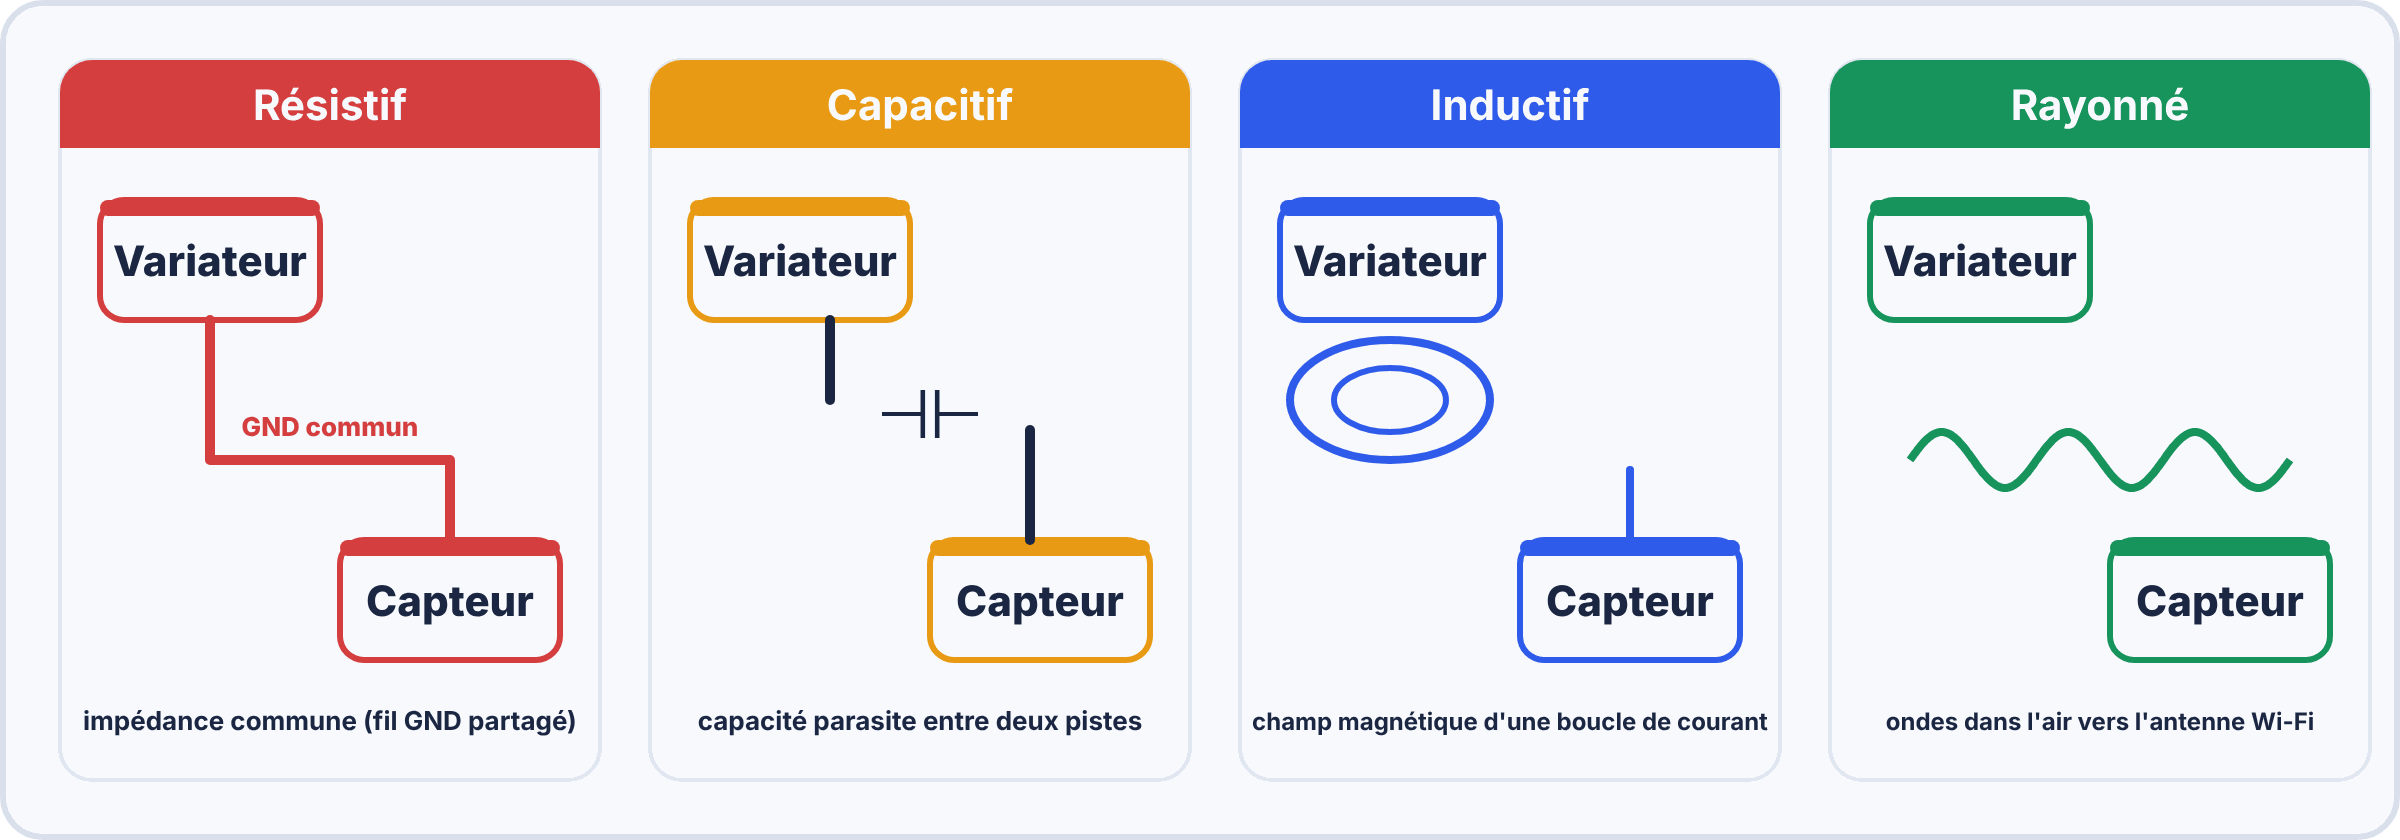
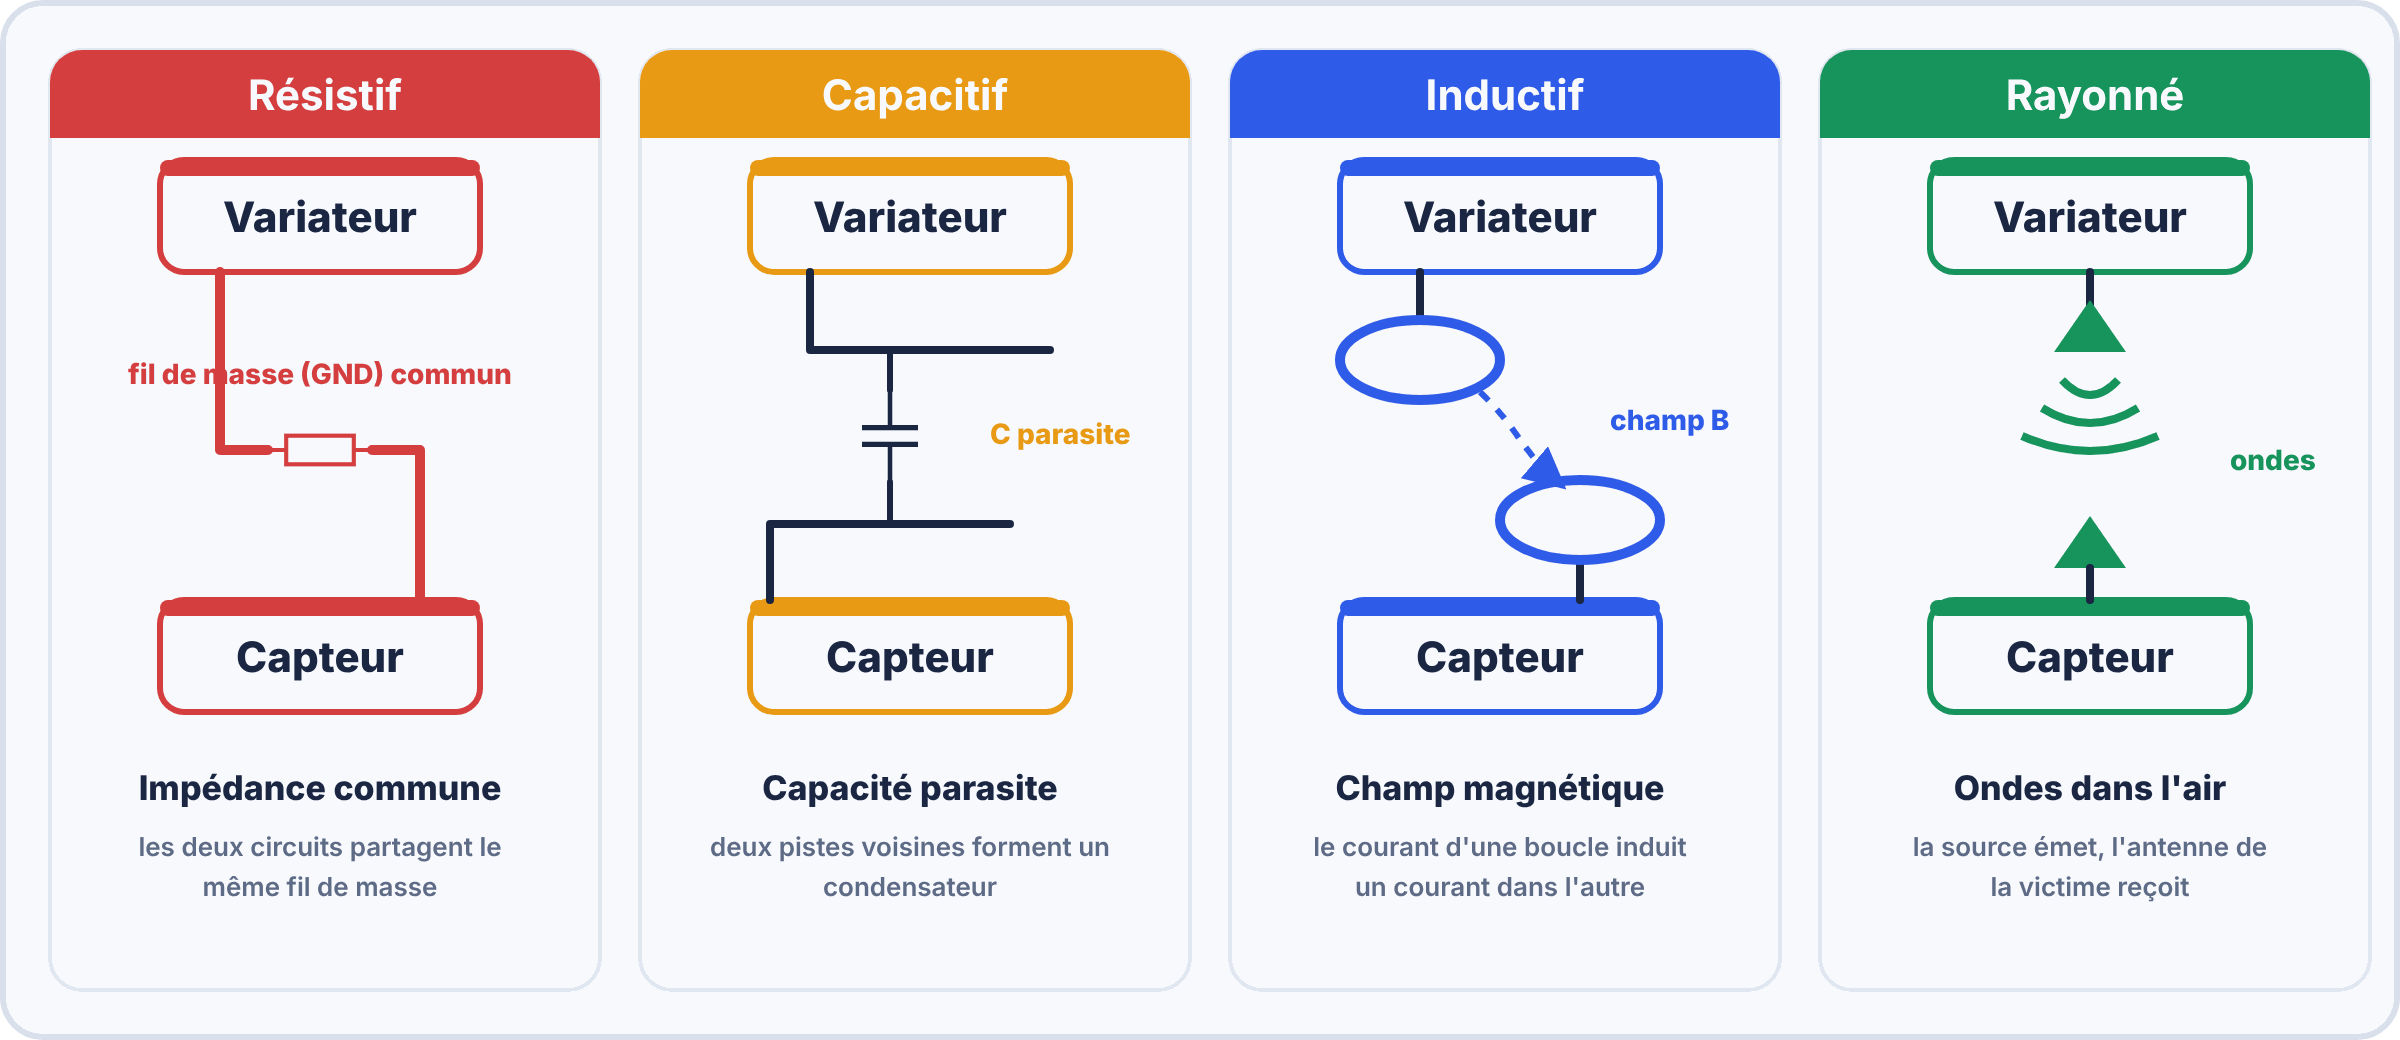
CEM (Première S13) : tableau source/couplage/victime, schémas des couplages et du découplage redessinés
Claude-Session: https://claude.ai/code/session_018Ln2Xo12prChdSPrkdSn9D

diff --git a/outils/illustrations-e2/figs_prem2.py b/outils/illustrations-e2/figs_prem2.py
@@ -121,15 +121,25 @@ def f_serie_para():
 
 def f_couplages():
     o = ""
-    spec = [("Résistif", "impédance commune (fil GND partagé)", RED), ("Capacitif", "capacité parasite entre deux pistes", AMBER), ("Inductif", "champ magnétique d'une boucle de courant", BLUE), ("Rayonné", "ondes dans l'air vers l'antenne Wi-Fi", GREEN)]
-    for i, (t, d, c) in enumerate(spec):
-        x = 30 + i * 295; o += panel(x, 30, 270, 360, t, accent=c) + block(x + 20, 100, 110, 60, "Variateur", None, c) + block(x + 140, 270, 110, 60, "Capteur", None, c)
-        if i == 0: o += s_wire([(x + 75, 160), (x + 75, 230), (x + 195, 230), (x + 195, 270)], c, 5) + T(x + 135, 218, "GND commun", 13, 800, c)
-        if i == 1: o += s_wire([(x + 90, 160), (x + 90, 200)], INK, 5) + s_wire([(x + 190, 270), (x + 190, 215)], INK, 5) + sym("C", x + 140, 207, 0, s=0.6)
-        if i == 2: o += f'<ellipse cx="{x+75}" cy="200" rx="50" ry="30" fill="none" stroke="{c}" stroke-width="4"/><ellipse cx="{x+75}" cy="200" rx="28" ry="16" fill="none" stroke="{c}" stroke-width="3"/>' + s_wire([(x + 195, 270), (x + 195, 235)], c, 4)
-        if i == 3: o += f'<path d="{sine_path(x+40, 230, 190, 14, 3)}" fill="none" stroke="{c}" stroke-width="4"/>'
-        o += T(x + 135, 365, d, 13, 700, INK) if len(d) < 36 else T(x + 135, 365, d, 12, 700, INK)
-    return figure(W, 420, o)
+    spec = [("Résistif", "Impédance commune", "les deux circuits partagent le même fil de masse", RED), ("Capacitif", "Capacité parasite", "deux pistes voisines forment un condensateur", AMBER), ("Inductif", "Champ magnétique", "le courant d'une boucle induit un courant dans l'autre", BLUE), ("Rayonné", "Ondes dans l'air", "la source émet, l'antenne de la victime reçoit", GREEN)]
+    for i, (t_, d1, d2, c) in enumerate(spec):
+        x = 25 + i * 295; cx = x + 135
+        o += panel(x, 25, 275, 470, t_, accent=c) + block(x + 55, 80, 160, 56, "Variateur", None, c) + block(x + 55, 300, 160, 56, "Capteur", None, c)
+        if i == 0:
+            o += s_wire([(cx - 50, 136), (cx - 50, 225), (cx - 26, 225)], c, 5) + s_wire([(cx + 26, 225), (cx + 50, 225), (cx + 50, 300)], c, 5) + sym("R", cx, 225, s=0.65, color=c) + T(cx, 192, "fil de masse (GND) commun", 14, 800, c)
+        if i == 1:
+            o += s_wire([(cx - 50, 136), (cx - 50, 175), (cx + 70, 175)], INK, 4) + s_wire([(cx - 70, 300), (cx - 70, 262), (cx + 50, 262)], INK, 4)
+            o += s_wire([(cx - 10, 175), (cx - 10, 195)], INK, 3) + sym("C", cx - 10, 218, rot=90, s=0.7) + s_wire([(cx - 10, 241), (cx - 10, 262)], INK, 3) + T(cx + 40, 222, "C parasite", 14, 800, c, "start")
+        if i == 2:
+            o += s_wire([(cx - 40, 136), (cx - 40, 160)], INK, 4) + s_wire([(cx + 40, 300), (cx + 40, 280)], INK, 4)
+            o += f'<ellipse cx="{cx-40}" cy="180" rx="40" ry="20" fill="none" stroke="{c}" stroke-width="5"/><ellipse cx="{cx+40}" cy="260" rx="40" ry="20" fill="none" stroke="{c}" stroke-width="5"/>'
+            o += f'<path d="M{cx-10},196 C{cx+10},215 {cx+10},225 {cx+30},242" stroke="{c}" stroke-width="3" stroke-dasharray="6 6" fill="none" marker-end="url(#arr)"/>' + T(cx + 55, 215, "champ B", 14, 800, c, "start")
+        if i == 3:
+            o += s_wire([(cx, 136), (cx, 160)], INK, 4) + f'<path d="M{cx-18},176 L{cx},150 L{cx+18},176 Z" fill="{c}"/>'
+            o += ''.join(f'<path d="M{cx-14-r*10},{190+r*14} Q{cx},{205+r*14} {cx+14+r*10},{190+r*14}" fill="none" stroke="{c}" stroke-width="4"/>' for r in range(3))
+            o += f'<path d="M{cx-18},284 L{cx},258 L{cx+18},284 Z" fill="{c}"/>' + s_wire([(cx, 284), (cx, 300)], INK, 4) + T(cx + 70, 235, "ondes", 14, 800, c, "start")
+        o += T(cx, 400, d1, 17, 800, INK) + T(cx, 428, d2.split(" ")[0] + " " + " ".join(d2.split(" ")[1:5]), 13, 600, MUTED) + T(cx, 448, " ".join(d2.split(" ")[5:]), 13, 600, MUTED)
+    return figure(W, 520, o)
 
 
 def f_blindage():
@@ -144,11 +154,20 @@ def f_blindage():
 
 
 def f_decouplage():
-    o = f'<rect x="40" y="40" width="1120" height="400" rx="16" fill="url(#pcb)"/>' + g(440, 190, dip(8, h=100, pitch=40, soic=True, label="MCU", fs=22), 2.0)
-    o += T(380, 130, "VCC", 20, 800, "#fff") + T(380, 355, "GND", 20, 800, "#fff")
-    for x in (560, 640): o += f'<rect x="{x}" y="285" width="46" height="26" rx="3" fill="#b78b52"/><rect x="{x}" y="285" width="9" height="26" fill="url(#metalH)"/><rect x="{x+37}" y="285" width="9" height="26" fill="url(#metalH)"/>'
-    o += callout(583, 298, 800, 250, "100 nF (0402) collés aux broches VCC / GND", "start", 17, bold=True) + chip(900, 400, "boucle de courant courte = moins de bruit", GREEN, w=500, size=16)
-    return figure(W, 480, o)
+    o = ""
+    for k, (ttl, col, loop, cap_x, msg) in enumerate((("Condensateur trop loin : mauvais", RED, "grande boucle de courant", 90, "la boucle capte et émet du bruit"), ("Condensateur collé au CI : bon", GREEN, "petite boucle de courant", 292, "la boucle est courte : peu de bruit"))):
+        x = 30 + k * 580
+        o += panel(x, 25, 560, 450, ttl, accent=col) + f'<rect x="{x+15}" y="75" width="530" height="385" rx="10" fill="#2f9a68"/>'
+        o += f'<rect x="{x+cap_x}" y="160" width="{x+330-x-cap_x}" height="100" fill="{col}" opacity=".28"/>'
+        o += s_wire([(x + 30, 160), (x + 330, 160)], "#e8c97a", 7) + s_wire([(x + 30, 260), (x + 330, 260)], "#e8c97a", 7)
+        o += f'<rect x="{x+330}" y="125" width="150" height="170" rx="8" fill="#25282e"/>' + T(x + 420, 215, "MCU", 24, 800, "#fff")
+        o += f'<rect x="{x+318}" y="152" width="14" height="16" fill="#c0c6cf"/><rect x="{x+318}" y="252" width="14" height="16" fill="#c0c6cf"/>'
+        o += T(x + 30, 145, "VCC", 18, 800, "#fff", "start") + T(x + 30, 292, "GND", 18, 800, "#fff", "start") + T(x + 345, 168, "broche VCC", 12, 700, "#fff", "start") + T(x + 345, 270, "broche GND", 12, 700, "#fff", "start")
+        cxx = x + cap_x
+        o += s_wire([(cxx, 160), (cxx, 180)], "#e8c97a", 6) + f'<rect x="{cxx-14}" y="180" width="28" height="60" rx="4" fill="#d9b06a" stroke="#7a5a2a" stroke-width="2"/>' + s_wire([(cxx, 240), (cxx, 260)], "#e8c97a", 6) + dot(cxx, 160, 7, "#fff") + dot(cxx, 260, 7, "#fff")
+        o += T(max(cxx, x + 150), 330, "condensateur 100 nF", 15, 800, "#fff") + (arrow(cxx + 20, 200, x + 318 - 10, 200, "#fff", 3) if False else "")
+        o += chip(x + 280, 395, loop, col, w=320, size=15) + T(x + 280, 440, msg, 15, 700, INK)
+    return figure(W, 500, o)
 
 
 def f_hysteresis():

diff --git a/outils/import_e2/premiere_rules.py b/outils/import_e2/premiere_rules.py
@@ -2,6 +2,18 @@
 has = lambda *s: (lambda b: all(x in b for x in s))
 M = lambda t: t  # lisibilité
 
+COUPLAGE_TXT = """| Source (émetteur) | Couplage (le chemin) | Victime (récepteur) |
+|---|---|---|
+| Moteur, variateur | par les fils (conduit) | Capteur |
+| Alimentation à découpage | par les ondes (rayonné) | Wi-Fi |
+| ESP32 | par les fils (conduit) | Microcontrôleur voisin |
+| Téléphone | par les ondes (rayonné) | Haut-parleur |
+
+> [!TIP] Trois façons de supprimer une perturbation
+> 1. **Agir sur le couplage** : éloigner, blinder, filtrer. C'est le plus simple.
+> 2. **Améliorer l'immunité de la victime.**
+> 3. **Réduire l'émission de la source.**"""
+
 MTBF = r"""$$\mathrm{MTBF} = \dfrac{T_O}{n}$$
 
 avec $T_O$ le temps total de fonctionnement et $n$ le nombre de pannes.
@@ -119,6 +131,7 @@ RULES = [
                          (has('[C1] ──── [C2]'), 'rbd_serie', 'Système série : la panne d\'un seul composant arrête tout', SERIE), (has('Capteur 1 (R=0,90)'), 'rbd_capteurs', 'Exemple de système mixte : deux capteurs en parallèle puis CPU, réseau et serveur en série', EXEMPLE)]),
     ('S11', 'annexe-ai', [(has('Rs = 1 − (1−R1)'), 'rbd_parallele', 'Système parallèle : il suffit qu\'un composant fonctionne', PARALLELE)]),
     ('S11', '03-exerci', [(has('DHT22 (R=0,88)'), 'rbd_station', 'Station IoT : DHT22 et MQ-2 en parallèle, puis ESP32, Wi-Fi/MQTT et Node-RED en série')]),
+    ('S13', '01-cours', [(has('(Émetteur)', 'Par les fils'), None, COUPLAGE_TXT)]),
     ('S13', 'annexe-ai', [(has('SOURCE ──→ COUPLAGE'), 'cem_couplage', 'CEM : source, couplage, victime'), (has('Sortie filtrée'), 'filtre_rc_cem', 'Filtre RC passe-bas', RC)]),
     ('S14', '01-cours', [(has('Chemin d\'un message MQTT'), 'chemin_message_mqtt', 'Chemin d\'un message MQTT et diagnostic par dichotomie')]),
     ('S15', '03-exerci', [(has('Système :  [A (R=0,85)]'), 'rbd_exercice', 'Système à étudier : capteurs A et B en parallèle, puis CPU et réseau en série', '```\n__REST__\n```')]),

diff --git a/docs/premiere/S13-cem-compatibilite-electromagnetique/01-cours.md b/docs/premiere/S13-cem-compatibilite-electromagnetique/01-cours.md
@@ -53,19 +53,17 @@ DOUBLE EXIGENCE DE LA CEM :
 
 ### Le triangle SOURCE – COUPLAGE – VICTIME
 
-> [!NOTE] SOURCE                COUPLAGE                VICTIME
-> (Émetteur)                                    (Récepteur)  
->
-> Moteur       ──── Par les fils ──────────────► Capteur  
-> Variateur  
-> Alimentation ──── Par les ondes ─────────────► WiFi  
-> à découpage  
-> ESP32        ──── Par les fils ──────────────► µC voisin  
-> Téléphone    ──── Par les ondes ─────────────► Haut-parleur  
->
-> SOLUTION : Agir sur le COUPLAGE (c'est le plus simple !)  
->           Ou améliorer l'IMMUNITE de la victime  
->           Ou réduire l'EMISSION de la source  
+| Source (émetteur) | Couplage (le chemin) | Victime (récepteur) |
+|---|---|---|
+| Moteur, variateur | par les fils (conduit) | Capteur |
+| Alimentation à découpage | par les ondes (rayonné) | Wi-Fi |
+| ESP32 | par les fils (conduit) | Microcontrôleur voisin |
+| Téléphone | par les ondes (rayonné) | Haut-parleur |
+
+> [!TIP] Trois façons de supprimer une perturbation
+> 1. **Agir sur le couplage** : éloigner, blinder, filtrer. C'est le plus simple.
+> 2. **Améliorer l'immunité de la victime.**
+> 3. **Réduire l'émission de la source.**
 
 ### Le marquage CE et la directive CEM
 
